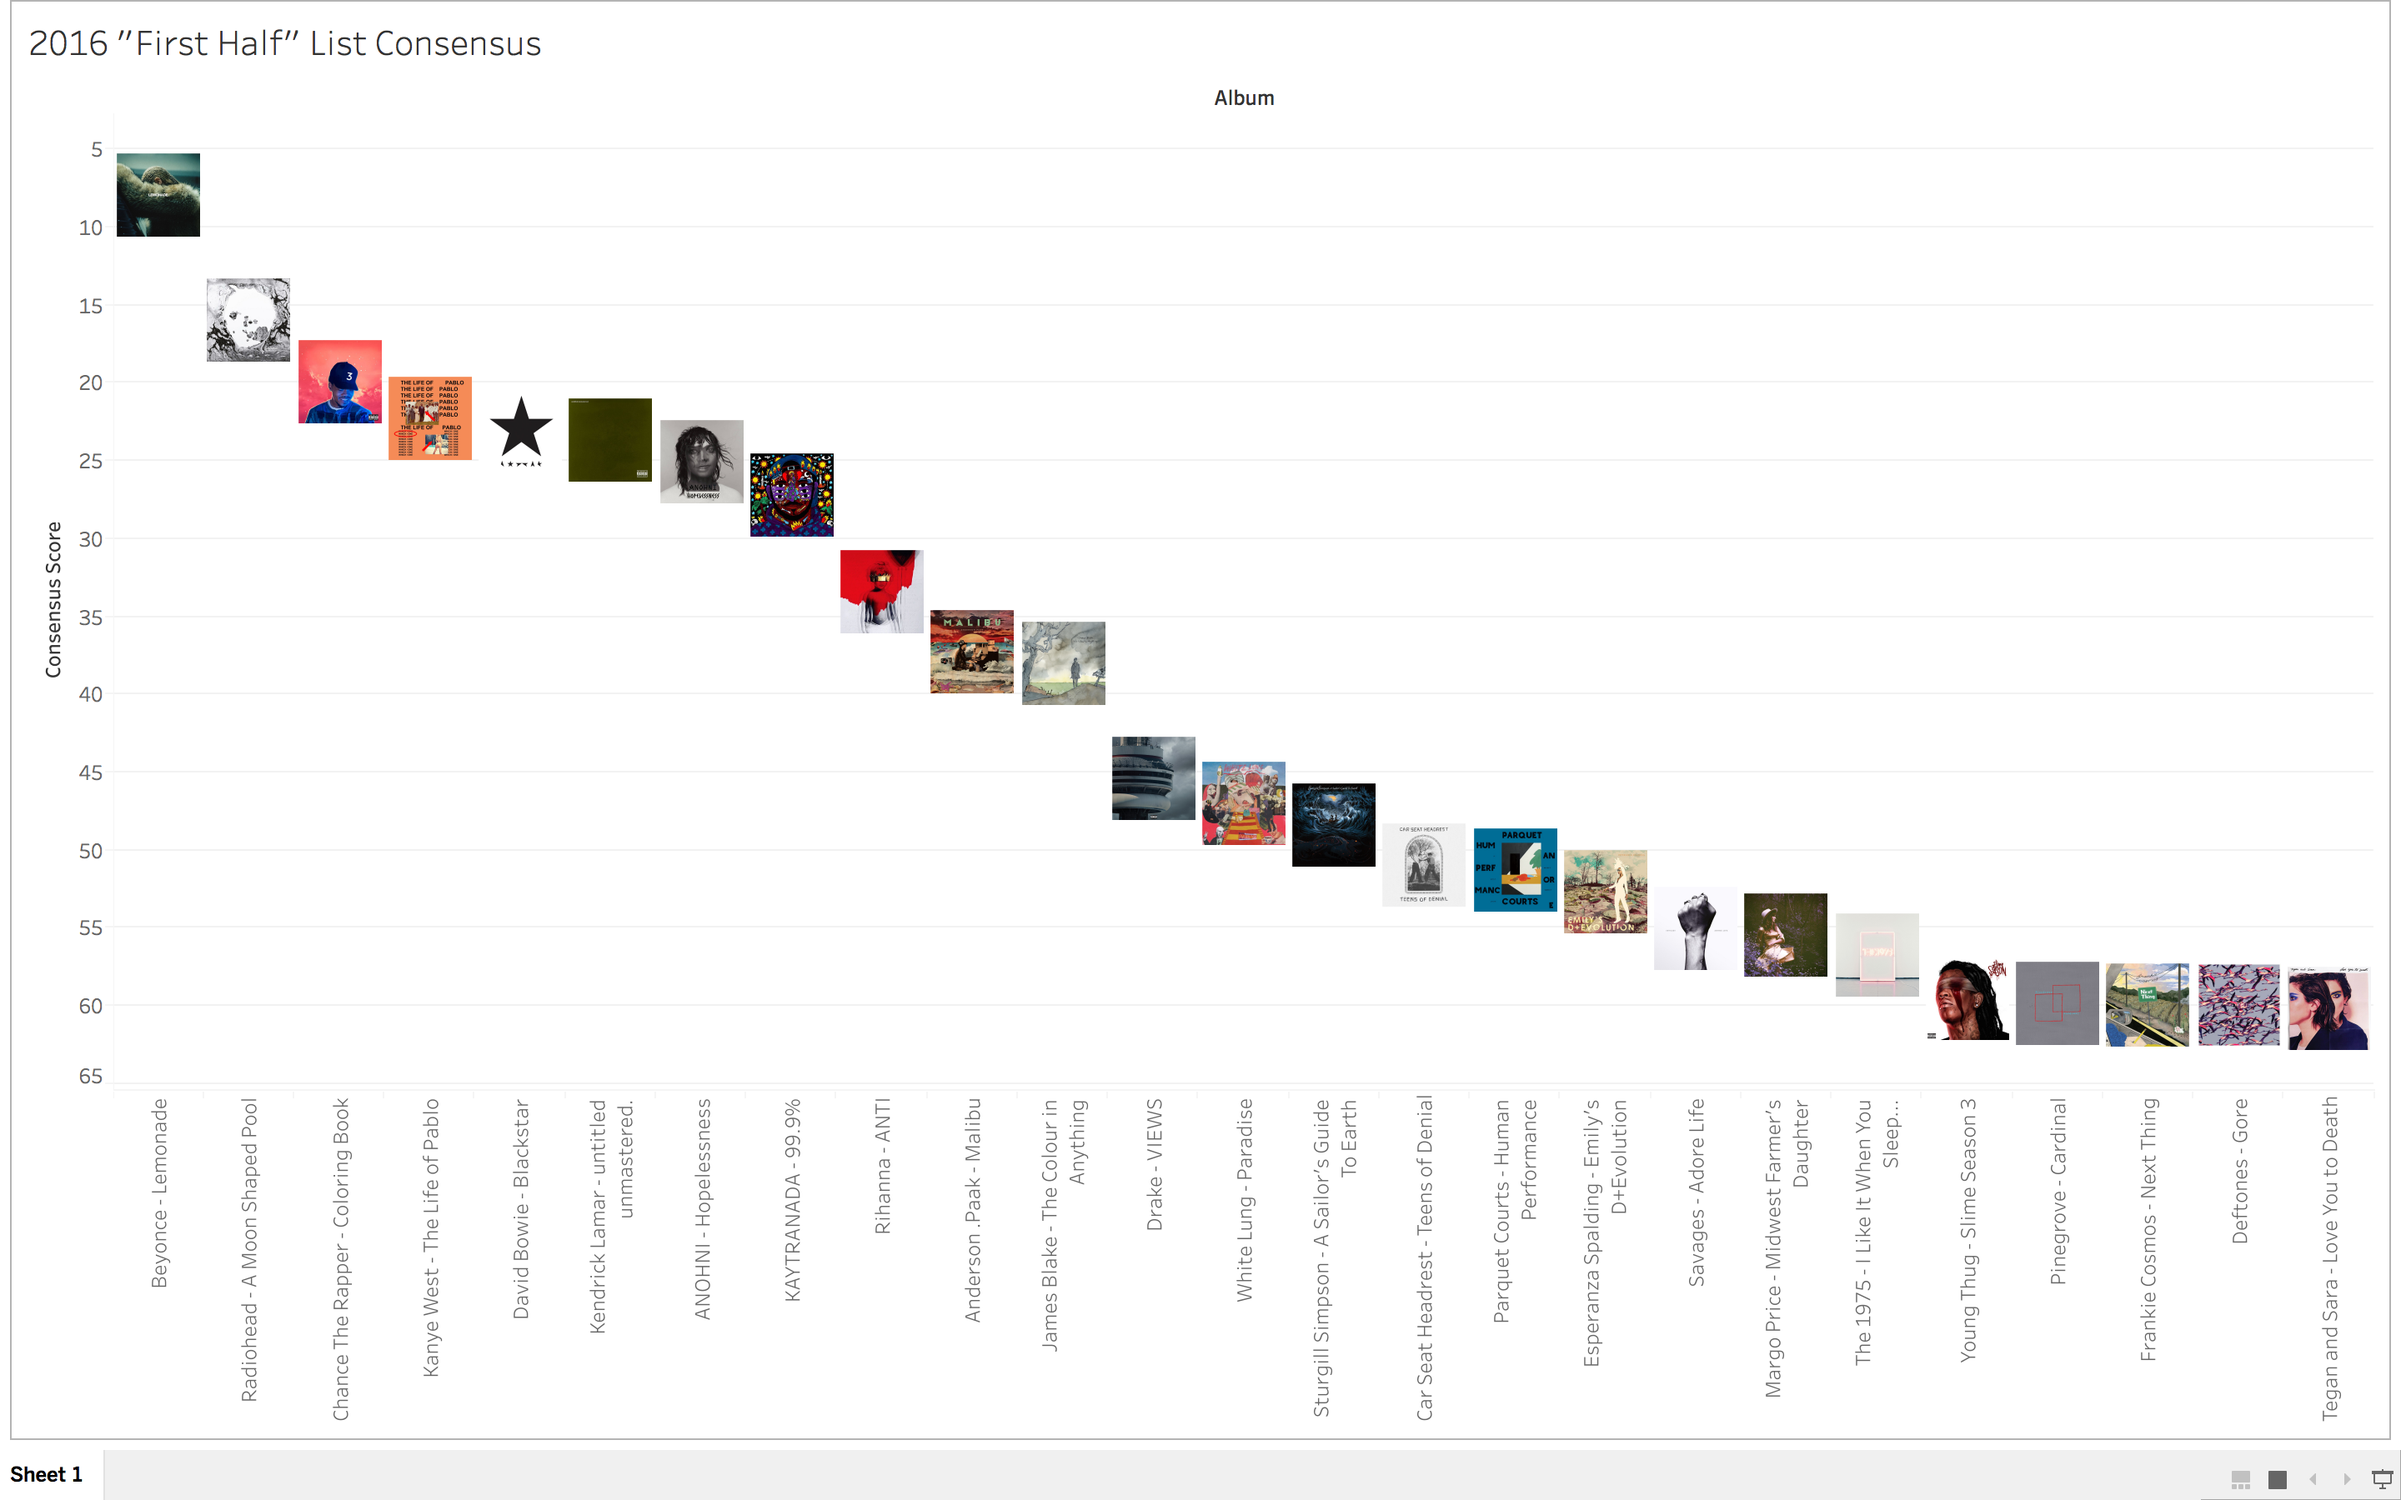
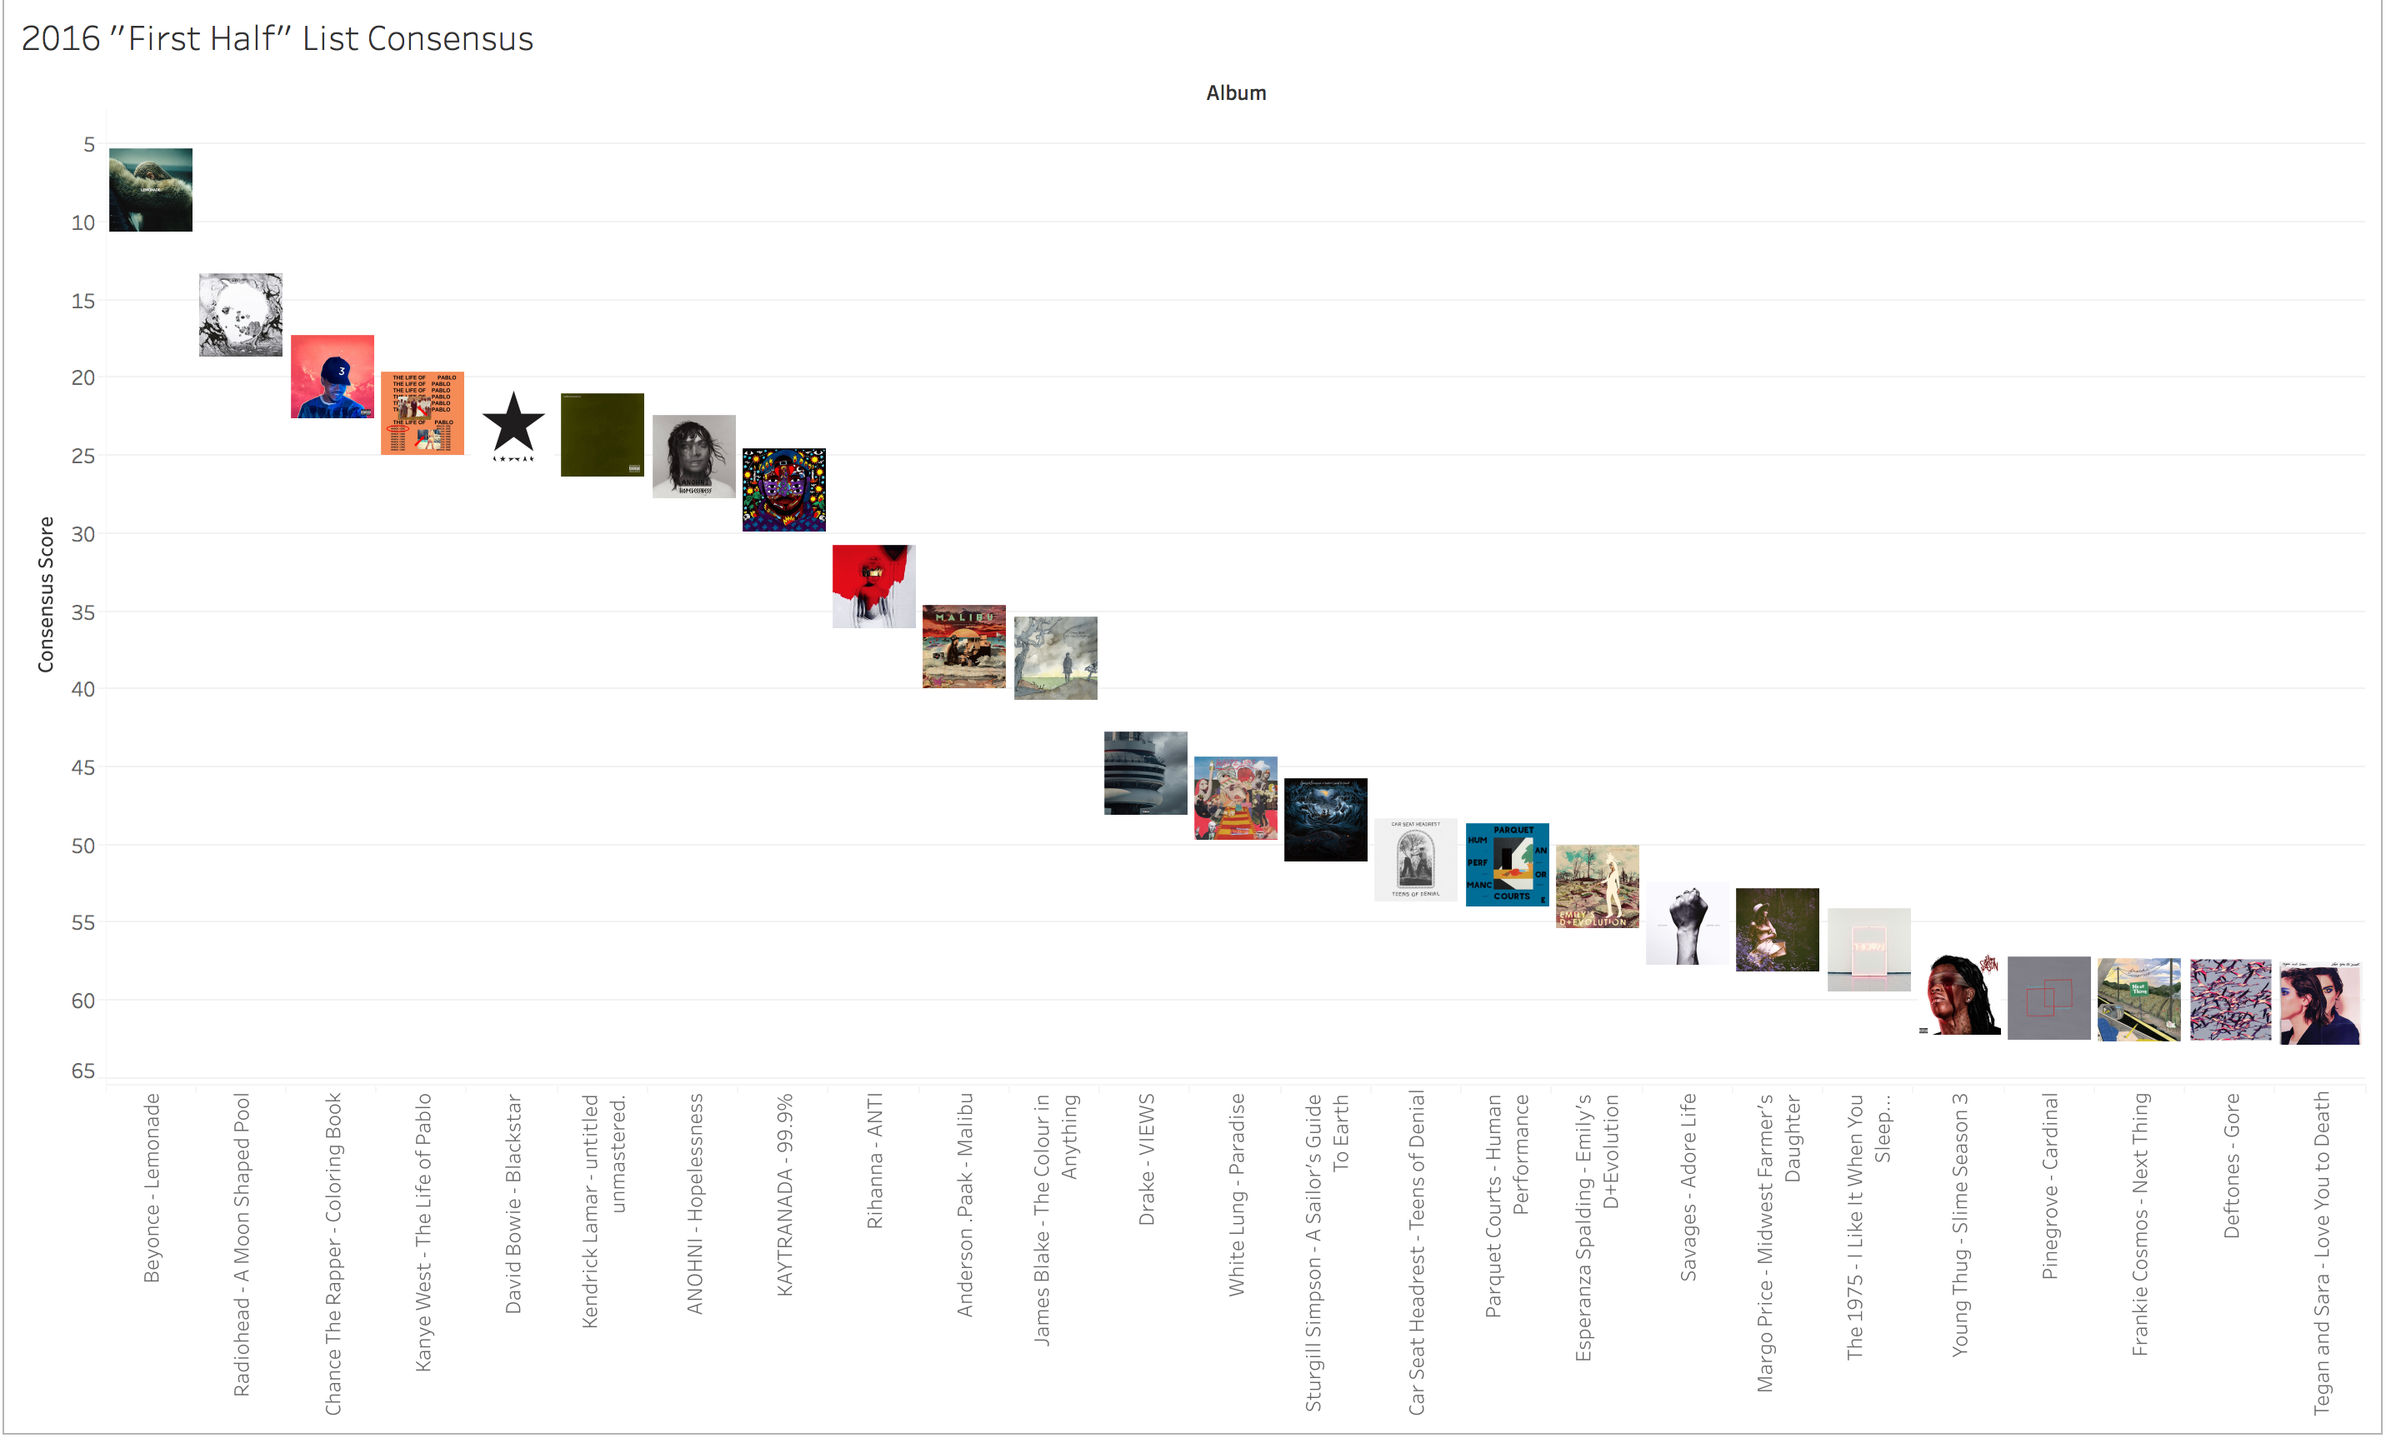
fixed image size

diff --git a/aotysheets.html b/aotysheets.html
@@ -53,7 +53,7 @@
 
         </div>
 
-        <img src="img/first-half.png">
+        <img src="img/first-half.png" style="width: 100%; height: auto">
 
         <div class="featurette" id="about">
 
